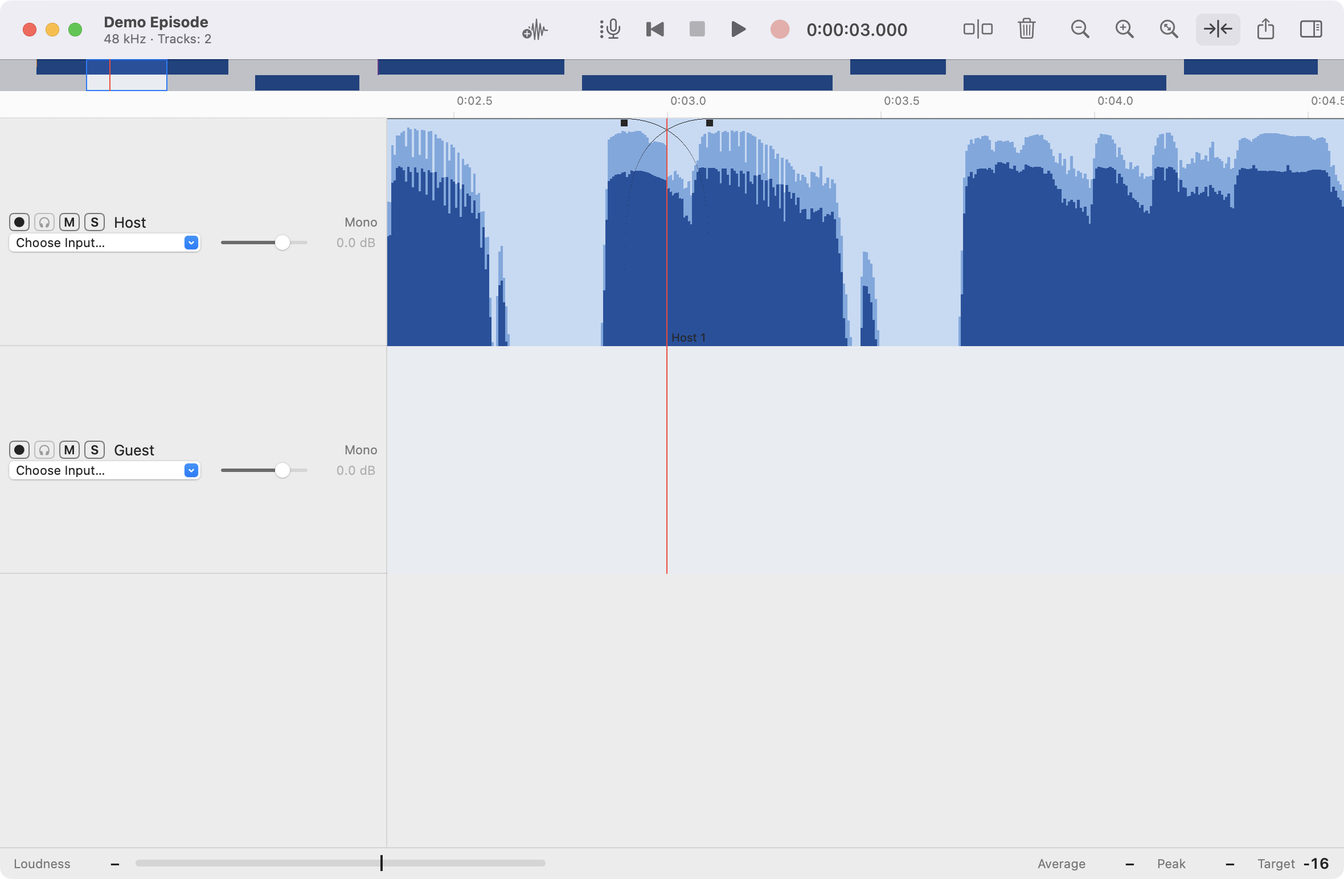
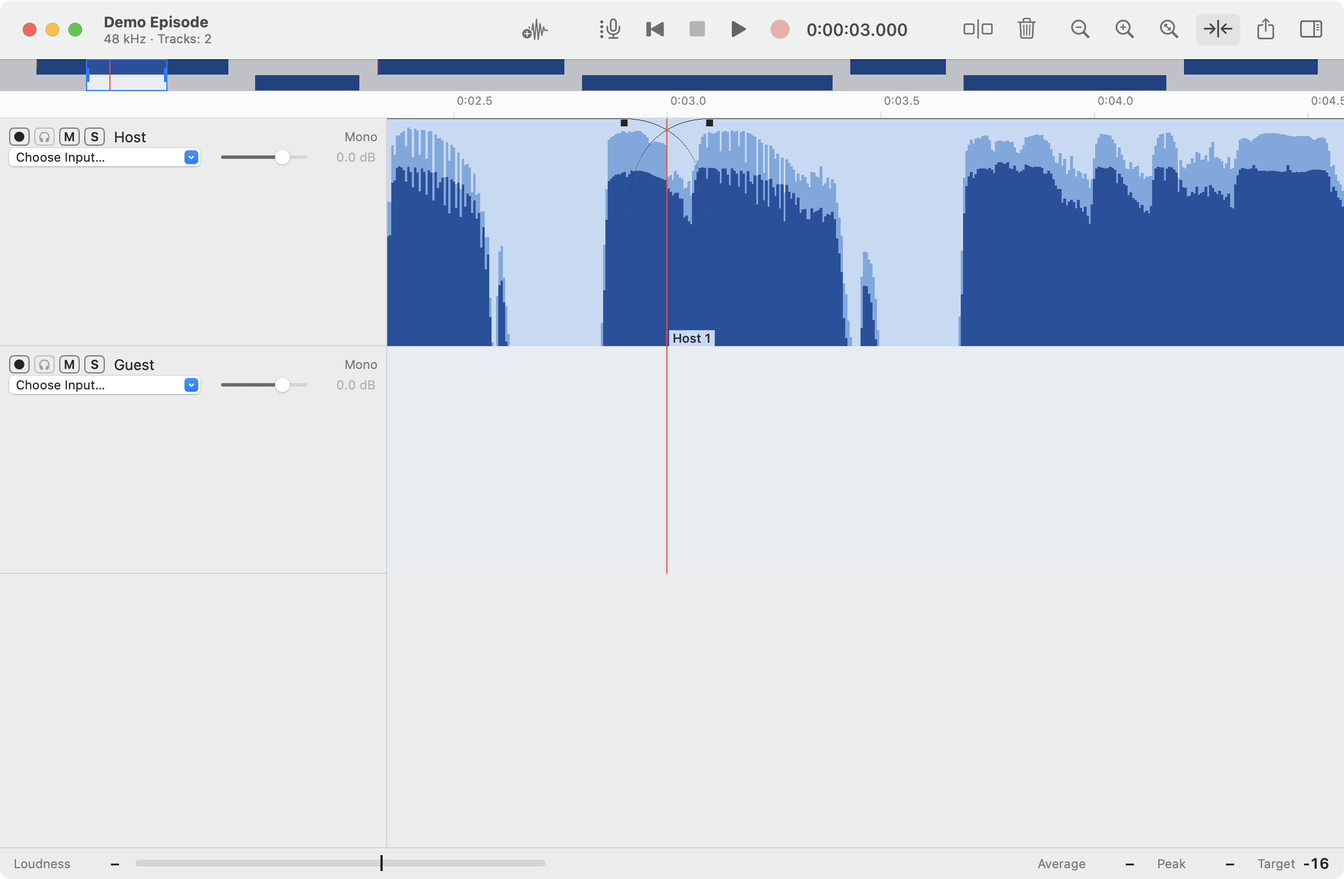
docs: header polish in the guide, decisions, and research
The guide now gives the short state texts and their help tags, the
symbols of a row under 80 pt, the red live region, the take form of the
header, the tint of a selected track, the zoom tooltips, and the grips
of the Session overview. Decisions 0022, 0023, 0025, and 0044 get the
amended rules. docs/research/track-header.md keeps the header research
of Hindenburg, Logic, GarageBand, and Final Cut Pro, with the facts of
the UI expert panel. The screenshots show the new clip label chips and
the taller lanes.

diff --git a/docs/research/track-header.md b/docs/research/track-header.md
@@ -1,0 +1,114 @@
+# Track header controls at a tall lane, and the header of a recording track
+
+Date: 2026-10-11
+
+Question: where do Hindenburg PRO and Logic Pro put the header controls of a tall track (at the top or at the center)? Which controls show at which height? How does Hindenburg draw the header of an armed track and of a track that records? GarageBand and Final Cut Pro are added where they help.
+
+Method: official guide pages and their figures, the Hindenburg Journalist 1.21 guide (vendor PDF, text and figures extracted with a Python script, no render), and frames of the official Hindenburg PRO videos (YouTube thumbnails). No app ran for the first pass: a flake loop ran on this Mac. Section 4 adds two on-screen checks in Logic 12.3.1. A sentence that starts with "Observed:" describes a figure or a frame. A sentence that starts with "Inference:" is our reading. "(unconfirmed)" marks a claim that no source shows.
+
+## 1. Vertical place of the header controls in a tall track
+
+| App | Place | Evidence |
+|---|---|---|
+| Hindenburg PRO | Top. The stack starts at the row top; the free space is below it. | [HJ] p. 8, 14, 19; [V-arm], [V-prep], [V-height] frames |
+| Logic Pro | Top at a large zoom. At about 4 times, the name and the control row stay at the row top, and a large track icon fills the free space; the track number stays at the vertical center. At about 1.3 times the block looks centered. | [LZT] figure; [L-screen] |
+| GarageBand | No per-track height in the guide. One header height, content centered. | [GZ], [GTH] figure |
+| Final Cut Pro | No track header. The lane name is at the top-left of a tall audio lane. | [FL] figure |
+
+### Hindenburg PRO
+
+- Observed: the header is a fixed stack: name field, volume slider, pan slider, a button row (Rec, M, S, FX, a menu triangle), and in PRO also an input route pop-up ("Soundflower", "Built-in Microphone") [V-arm] [V-prep]. The stack is at the top of the row. The rest of the header is empty gray [HJ] p. 14, p. 19.
+- Observed: the stack has the same layout at all the heights in the sources. [HJ] p. 8 shows short rows, and p. 14 and p. 19 show tall rows. The stack is at the top in each. In [V-height] (the "View - Increase track height" video) the rows are larger, and the stack stays at the top.
+- The [V-prep] frame has the title "Hindenburg Broadcaster", and [V-arm] shows a Soundflower route. These frames show old builds. The header of PRO 2 is unconfirmed in these sources.
+- Observed: no figure shows more controls at a larger height, or fewer controls at a smaller height. The behavior of a row that is shorter than the stack is unconfirmed.
+- The guide lists the header controls: "Rename Track, Track Volume, Track Balance, Arm Rec, Monitor, Mute, Solo, Effects bin, Voice Profiler" [HJ] p. 44. "Zoom Track Height" makes the tracks larger or smaller [HP-guides] [HJ] p. 95 (keys).
+
+### Logic Pro
+
+- The guide: "move the pointer to the bottom-left corner of a track. ... Drag vertically. The individual track zoom factor ... is shown in the help tag" [LZT]. Control-Z zooms the focused track [LZT].
+- Observed: in the [LZT] figure, track 2 is zoomed to about 1.3 times the other rows. Its icon, its name, and its M S R row stay at the vertical center of the row. The track number is also centered. The other rows are centered too.
+- Observed: the header has one row of controls at each height in the figure (name above M, S, R, I; volume slider; pan knob) [LTH]. The guide gives no rule that adds or removes a control with the height. The choice of controls is a user setting: Track > Configure Track Header (Option-T) [LTH].
+- The figure shows only a small zoom.
+- Observed on screen (Logic 12.3.1, [L-screen] `04-zoom4x`): a track zoomed to about 4 times keeps its name, M, S, R, I, the volume slider, and the pan knob at the top of the row. A large track icon fills the space below. The track number stays at the vertical center of the row. The other rows do not change.
+
+### GarageBand
+
+- The Tracks area guide describes only the horizontal zoom sliders: "drag the horizontal zoom sliders, located in the ruler" [GZ]. It gives no per-track height.
+- Observed: the [GTH] figure shows the header content (icon, name, buttons, volume, pan) at the vertical center of the row.
+
+### Final Cut Pro
+
+- Final Cut Pro has no track header. "A text label appears at the left side of each audio lane, identifying the role" [FL]. The Lane Headers checkbox keeps the lane names visible: "Always show lane names (so the names aren't obscured by clips)" [FCA].
+- Observed: in the [FL] figure, the Dialogue lane holds two rows of clips. Its label is at the top-left of the lane, not at the center.
+- The Clip Height slider sets the clip height [FCA].
+
+## 2. The header of an armed or recording track
+
+### Hindenburg PRO
+
+- Arm: "Prepare (Arm) the track for recording. The small meter will show input levels. Arm track > Click 'Arm Rec' in track" [HJ] p. 19. The key is R [HJ] p. 45. Monitor on and off is in the context menu of the Rec button [HJ] p. 46.
+- Observed: the Rec button of an armed track has a bright red dot. The dot of a track that is not armed is pale pink [HJ] p. 14, p. 19.
+- Observed: on the armed track, the thumb of the volume slider is red. On the other tracks it is white [HJ] p. 19; the same in [V-arm] and [V-prep]. The meaning of the red thumb is unconfirmed.
+- Observed: a vertical green meter strip at the edge between the header and the lane shows the input of the armed track [HJ] p. 19.
+- Observed: during a take, the new region in the lane is red ("Speak 1"). A finished region is blue [HJ] p. 19 (second figure), p. 14.
+- Observed: during a take, the header does not change. The name field, the sliders, and the buttons keep their normal look; nothing is gray. The selected track name has a blue fill, armed or not. No colored bar is at the row edge [HJ] p. 19.
+- Whether the route pop-up and the sliders accept a change during a take is unconfirmed.
+
+### Logic Pro
+
+- The Record Enable button has four states: "Off (gray)", "Record-ready (blinking red)", "Recording (solid red)", and "Single track, ready to record (gray with red letter R; appears on the focused track if no tracks are manually record enabled)" [LRE].
+- "If Input is set to No Input, the R button is hidden" [LRE].
+- Observed: the [LZT] figure shows an armed track with a red R button. The rest of the header keeps its normal look.
+- Observed on screen ([L-screen] `05-armed`, `06-recording`): an armed track has a solid red R and a green level inside its volume slider. During a 3 s take the header keeps its normal look: nothing is gray, and no bar is at the row edge. The new region in the lane is dark red while it records, as in Hindenburg.
+
+### GarageBand
+
+- "The Record Enable buttons include a circle that lights red when the track is record-enabled" [GRE].
+- Observed: in the [GTH] figure, the volume slider shows a green level bar inside its track.
+
+### Final Cut Pro
+
+- Final Cut Pro records in the Record Voiceover window, not in a track header. The window has the input gain, the meter, the input, and the monitor [FVO].
+
+## 3. What this changes for the header of Dirigible
+
+- Line 1 at the row top from 80 pt: Hindenburg, Logic, and Final Cut Pro support it. The [LZT] figure at about 1.3 times looked centered, but the on-screen check at about 4 times shows the controls at the row top ([L-screen]).
+- Inference: Hindenburg puts the stack at the top at every height. Dirigible keeps the center under 80 pt. This is our choice, not a reference behavior: at 80 pt or less, the two lines fill most of the row.
+- The take look: Hindenburg and Logic keep the header at its normal look during a take. This supports "no gray row" and "the name keeps the primary color". No source shows a red bar at the row edge. The reference apps show the state on the arm button: Hindenburg lights the dot red, and Logic blinks the R red when ready and makes it solid red during a take.
+- Inference: a 3 pt red bar repeats the red R. Hindenburg and Logic draw the live region red in the lane during the take ([HJ] p. 19, [L-screen] `06-recording`). No source shows the bar.
+- Open question: the plain route text during a take has no reference. Hindenburg shows the route pop-up; its state during a take is unconfirmed.
+
+## 4. On-screen checks in Logic 12.3.1 (2026-10-11)
+
+1. A track zoomed to about 4 times (a drag at the bottom-left corner of the track header): the controls are at the row top.
+2. One armed track, a 3 s take from the built-in microphone: the header keeps its normal look, the R is solid red, and the live region is red. Logic quit with Don't Save; no project or audio file stayed.
+
+## 5. Facts of the UI expert panel
+
+A UI expert panel (one agent each for Hindenburg PRO, Logic Pro, GarageBand, and Final Cut Pro) quoted these pages on 2026-10-11. This file did not fetch them again.
+
+- Logic Pro: "The level meter in a track's Volume slider shows the output volume for the track as the project plays". In the track list, "During playback, each track number is replaced with a small level meter showing the output level" [LTH-10].
+- Logic Pro: Vertical Auto Zoom resizes the tracks "so that all tracks are visible, with no blank space" (`docs/research/logic-garageband-update.md`).
+- GarageBand: Quick Help shows a short description of the control under the pointer in a yellow bubble, and links to longer help [GQH].
+- Final Cut Pro: the Clip Appearance pop-up holds Clip Height, the waveform size, and a Zoom slider [FCA]. View > Vertical Zoom to Fit has the key Option-Shift-Z (`docs/research/macos-ui-shell.md`).
+- Final Cut Pro: roles are color labels, and all clips of a role show the role color in the timeline (`docs/research/final-cut-pro.md`).
+
+## Sources
+
+- [HJ] Hindenburg Journalist 1.21 user guide for OS X, pages 8, 14, 19, 44 to 46, 95 (text and figures extracted on 2026-10-11): https://www.willyurman.com/teaching/handouts/Hindenburg_Journalist.pdf
+- [HP-guides] Hindenburg PRO functions and guides: https://hindenburg.com/academy/guides/guides-hindenburg-pro/
+- [V-arm] Hindenburg PRO, "Tracks - Arm Track" video (frame: maxresdefault): https://hindenburg.com/data/youtube/videos/how-to-arm-a-track-in-hindenburg-pro-hindenburg/ (YouTube zglwxhxLa-w)
+- [V-prep] Hindenburg PRO, "Record - Arm track" video (frame: maxresdefault): https://hindenburg.com/data/youtube/videos/how-to-prepare-a-track-for-recording-in-hindenburg-pro-hindenburg/ (YouTube a7uHvokmFjE); also the "Record" video frame hq2: https://hindenburg.com/data/youtube/videos/how-to-begin-recording-on-a-track-in-hindenburg-pro-hindenburg/ (YouTube dQl7BuV9-Rk)
+- [V-height] Hindenburg PRO, "View - Increase track height" video (frame: hq2): https://hindenburg.com/data/youtube/videos/how-to-make-a-track-larger-in-hindenburg-pro-hindenburg/ (YouTube 00CSEJ7ieWM)
+- [LZT] Logic Pro 12.3 User Guide, Zoom tracks, with the figure "Zooming a track in the track header": https://support.apple.com/guide/logicpro/zoom-tracks-lgcpc79f5bcd/mac (figure: https://help.apple.com/assets/697921A0B89A6DAE620D667A/697921A59331DF6F330EFA33/en_US/32e83b2dfbf5f44467d89f5af8c8c119.png)
+- [LTH] Logic Pro 12.3 User Guide, Track header overview: https://support.apple.com/guide/logicpro/track-header-overview-lgcpe53c68af/mac
+- [LRE] Logic Pro 12.3 User Guide, Make tracks ready for recording: https://support.apple.com/guide/logicpro/make-tracks-ready-for-recording-lgcp0c445ccf/mac
+- [GTH] GarageBand User Guide, Intro to track headers: https://support.apple.com/guide/garageband/intro-to-track-headers-gbnd6143101c/mac
+- [GRE] GarageBand User Guide, Enable tracks for recording (figure: https://help.apple.com/assets/6837A0663D97F08D11030E14/6837A070079DA7265609910C/en_US/c7aded2971f62a0bcce29a0d081f34a6.png): https://support.apple.com/guide/garageband/enable-tracks-for-recording-gbnd9e804dab/mac
+- [GZ] GarageBand User Guide, Scroll and zoom in the Tracks area: https://support.apple.com/guide/garageband/scroll-and-zoom-in-the-tracks-area-gbndd75e5c48/mac
+- [FL] Final Cut Pro User Guide, Organize the timeline with audio lanes (figure: https://help.apple.com/assets/6A29F5537442EFE69C0CD4F3/6A29F558FEEBDB01270C8EF2/en_US/e6c0d4ded6a7fc7b2e8bf9795d358148.png): https://support.apple.com/guide/final-cut-pro/organize-the-timeline-with-audio-lanes-verb71cb913/mac
+- [FCA] Final Cut Pro User Guide, Adjust timeline clip appearance: https://support.apple.com/guide/final-cut-pro/adjust-timeline-clip-appearance-verb8e5d346/mac
+- [L-screen] Logic Pro 12.3.1 on this Mac, 2026-10-11: run folder `logic/04-zoom4x.png`, `logic/05-armed.png`, `logic/06-recording.png` (not in git).
+- [FVO] Final Cut Pro User Guide, Record voiceovers: https://support.apple.com/guide/final-cut-pro/record-voiceovers-verc1faa9c5/mac
+- [LTH-10] Logic Pro 10.1 help, Track header overview (quoted by the panel): https://help.apple.com/logicpro/mac/10.1/en.lproj/lgcpe53c68af.html
+- [GQH] GarageBand User Guide, Quick Help (quoted by the panel): https://support.apple.com/en-mt/guide/garageband/gbnde4c4dcd6/mac

diff --git a/docs/guide.md b/docs/guide.md
@@ -63,7 +63,7 @@ A track records only when its arm button is on. Click the button to turn it on o
 ### Record a take
 
 1. Choose **Record > Record** (Command-R). The window shows **Recording take 1** and the time.
-2. Record the interview. The armed tracks show the audio as it records. A red line shows the record head. When **View > Automatic Scroll** is on, the view turns the page to keep the record head in view.
+2. Record the interview. The armed tracks show the audio in red as it records. A red line shows the record head. The header of each armed track shows its input and its name as text until the take is finished. When **View > Automatic Scroll** is on, the view turns the page to keep the record head in view.
 3. Choose **Transport > Stop** (Command-Period). The window shows **Finishing take 1**, then **Take 1 is finished.**
 
 A take is one recording, from Record to Stop. After Stop, Dirigible finalizes the take: it writes the audio of each track into clips. A clip is one piece of audio on a track. The playhead is the vertical line that shows the play position. After a take, the playhead is at the end of the take.
@@ -135,7 +135,7 @@ The in point is the start of the selection, and the out point is the end. With n
 ### Zoom
 
 - Choose **View > Zoom In**, **View > Zoom Out**, or **View > Zoom to Session**.
-- On a trackpad, pinch to zoom. With a mouse, hold Command and turn the scroll wheel.
+- On a trackpad, pinch to zoom. With a mouse, hold Command and turn the scroll wheel. The zoom keeps the part under the pointer in place. The tooltips of the **Zoom In** and **Zoom Out** toolbar buttons tell you this.
 - Choose **View > Zoom to Selection or Session** to show the selection. With no selection, it shows the whole session. Choose it again to go back to the view before.
 - Choose **View > Zoom Back** and **View > Zoom Forward** to go through the zoom history of the window.
 - Double-tap with two fingers on a trackpad for smart zoom. When the whole session is in view, smart zoom zooms in at the pointer. In other views, it shows the whole session.
@@ -146,7 +146,7 @@ The **Session overview** is the strip above the time ruler. It shows the whole s
 
 - Click the Session overview to show that part of the session.
 - Drag the frame to scroll.
-- Drag an edge of the frame to zoom. Press Esc during the drag to go back to the view before.
+- Drag an edge of the frame to zoom. When the frame is 16 pt or wider, a grip shows at each edge. Press Esc during the drag to go back to the view before.
 - Double-click the Session overview to show the whole session. Double-click again to go back.
 
 ### Scroll by page and change the track height
@@ -167,7 +167,7 @@ A selection is a range or a set of clips. A range has an in point, an out point,
 - Shift-click a track to select from the playhead to the click. Shift-drag to make the selection larger.
 - Command-click the upper part of a clip to add it to the set of clips or remove it from the set. When a range is selected, the set starts with the clips that the range holds fully.
 - Command-click the lower part of a clip, or an empty part of a track, to add the track to the range or remove it from the range.
-- Click the header of a track, or its name, to select that track. The header shows the selection color. The in point and the out point stay. Command-click a header to add its track or remove it. Shift-click a header to select all tracks from the selected tracks to that track.
+- Click the header of a track, or its name, to select that track. The header shows the selection color, and the track shows a light tint of it. The in point and the out point stay. Command-click a header to add its track or remove it. Shift-click a header to select all tracks from the selected tracks to that track.
 - Drag a triangle in the time ruler to move the in point or the out point.
 - Choose **Edit > Select All** to select the whole session. Choose **Edit > Deselect All**, or press Esc, to clear the selection.
 - **Set In Point**, **Set Out Point**, **Select All**, and a drag that selects a range replace a set of clips with a range.
@@ -352,8 +352,8 @@ The Monitor button (the headphones, after the arm button) in the track header do
 - The track does not need to be armed. The monitor works before, during, and after a take, and during play.
 - Only a track with an input device can monitor. For an app track or a track with no input, the item is dimmed.
 - When the output is the built-in speakers, the monitor plays no sound, so the microphone does not pick up the monitor. The window shows the banner "Use headphones to hear the monitor." Plug in headphones, and the sound comes back. Dirigible does not detect external speakers. With speakers, turn the monitor off.
-- When the monitor cannot play, the track shows "No monitor sound. Turn Monitor Track off and on."
-- When the output contains the virtual device of the input, for example a loopback device in an aggregate device, the monitor plays no sound, so it does not feed its own input. The header says why: "No monitor sound: the output can feed this input. Choose another output."
+- When the monitor cannot play, the track header shows "No monitor sound". Hold the pointer over it to see the full text: "No monitor sound. Turn Monitor Track off and on." A header that is lower than 80 pt shows a speaker symbol with a slash.
+- When the output contains the virtual device of the input, for example a loopback device in an aggregate device, the monitor plays no sound, so it does not feed its own input. The full text says why: "No monitor sound: the output can feed this input. Choose another output."
 - You hear your voice a short time late: about 100 ms from the built-in microphone. Bluetooth headphones add more.
 - The monitor is off when a session opens. Dirigible does not save it.
 
@@ -368,7 +368,7 @@ Dirigible can record the sound of another app, for example a Zoom, Teams, or Sla
 
 - One app can feed one track only. Record your own microphone on another track.
 - When the app does not run, the track shows "Waiting for" and the app name, and records silence. When the app starts, the track records it.
-- When the track gets only silence for 5 seconds while the app plays sound, the track shows "No sound from" and the app name, with the button **Privacy…** (full name **Open Privacy Settings**). The button opens Privacy & Security in System Settings. Allow Dirigible in **Privacy & Security > System Audio Recording**. Dirigible tries again 10 and 40 seconds later.
+- When the track gets only silence for 5 seconds while the app plays sound, the track shows "No sound from" and the app name, with the button **Privacy…** (full name **Open Privacy Settings**). A header that is lower than 80 pt shows an orange warning symbol: hold the pointer over it to see the text, and click it to open the settings. The button opens Privacy & Security in System Settings. Allow Dirigible in **Privacy & Security > System Audio Recording**. Dirigible tries again 10 and 40 seconds later.
 - On macOS 14.0 and 14.1, the **Apps** section shows "Needs macOS 14.2 or later".
 - In Terminal, `dirigible apps` lists the apps, and `dirigible track route <package> <track> --app <bundle ID>` sets an app as the input. `dirigible track add-call <package> --device <UID> --channels 1 --app <bundle ID>` adds the **Host** and **Guest** tracks.
 

diff --git a/docs/decisions/0044-record-monitor.md b/docs/decisions/0044-record-monitor.md
@@ -5,6 +5,7 @@
 - Accepted: 2026-10-10, after plan gates 1 and 2 of run `2026-10-10-record-monitor`.
 - Amended: 2026-10-10. The speaker guard plays zeros when the output, or one of its active subdevices, is a loopback device of the listened input: the input when it is virtual, and each virtual device under an aggregate input. A failed transport or subdevice read, or an aggregate under itself, makes every output a loopback (fail closed), and the header shows the quiet text.
 - Amended: 2026-10-10. Track > Monitor Track has the key Control-Command-M. A text field has no Control-Command-M, so the track name field keeps its keys. Each device track header has a Monitor button with the same state.
+- Amended: 2026-10-11, run ui-polish-header. The full quiet sentence wrapped to 3 to 13 lines in a header row. The row shows "No monitor sound": on line 3 in a row of 80 pt or more, as a speaker symbol in a lower row. The full sentence is the help tag and the VoiceOver label.
 - Amends: 0013 (a second owner of an input IOProc), 0015 (the meter request includes the listened tracks), 0039 (playback during a take goes to Release 3 run 9).
 
 ## Context
@@ -39,7 +40,7 @@ Probes P1 to P9 (2026-10-10, macOS 15.7.9, x86_64, Swift 6.2.4; run `2026-10-10-
 
 **Owner and order.** `Studio.listen(to:)` sets the request. Each change runs in its own order, not in the monitor turns of 0015: the hand-over holds a monitor turn while an app attach waits for a prompt. A device that leaves the request plays zeros before the first await and is released before the return. The monitor needs no arm and works during a take and a finalize. `settle()` empties the listen request first. The `Listener` keeps the attach, retry, and keep rules of 0013 and 0015 for its own IOProc. An output unit that fails to start sends the `Listener` to its retry. A failed stop keeps the ring and does not flush it. A retry after a failed stop or detach makes a new ring and context, and counts against the keep limit, so no ring gets two producers or two consumers. A clean IOProc destroy (P8) and a clean unit stop (P9) free the ring bytes; after a failed one, the ring stays for the process life. The context (its atomics and its lock) stays for the process life in each case, because a listener call can be in progress after its removal (0013).
 
-**State in the window.** A `Listener` that waits or stops retrying reports it. `Studio` keeps the quiet state per device and takes a report only from the current `Listener` of that device. The quiet tracks are the listened tracks of a quiet device, so off leaves no text. The tracks of a quiet device show "No monitor sound. Turn Monitor Track off and on." in the track header.
+**State in the window.** A `Listener` that waits or stops retrying reports it. `Studio` keeps the quiet state per device and takes a report only from the current `Listener` of that device. The quiet tracks are the listened tracks of a quiet device, so off leaves no text. The tracks of a quiet device show "No monitor sound" in the track header, with the full sentence "No monitor sound. Turn Monitor Track off and on." as the help tag and the VoiceOver label.
 
 **Playback during a take.** No playback runs during a take, and mute and solo stay off during a take. Pre-roll (Release 3 run 9) needs playback during a take with a take anchor that includes the output latency, so that run decides both.
 

diff --git a/docs/decisions/0022-timeline-lane-layer.md b/docs/decisions/0022-timeline-lane-layer.md
@@ -6,6 +6,7 @@
 - Changed: 2026-09-27, by run 1b slice 1 (decision 0023, "Surface capacity"): the capacity columns are ceil(max(clip view width, view width) x scale) + 1. The clip view width has the part under the track headers, so a header drag keeps the 4 slots and renders only the new columns. The memory bound is 4 x the capacity bytes at the clip view width: about 81 MB at 1780 x 600 pt (1440 pt of lanes, a 340 pt header), 100 pt lanes, scale 2, about 24 % more.
 - Amended: 2026-10-01, live-take-view run: the live take is a drawn input outside `LaneInputs`, with its own invalidation. At a display tick, an append (a new store version) marks the full-height columns from the lowest added frame or the last live head, the lower, to the new head. A tick with no new version draws nothing. A new epoch or a new live key (a take start, a stop, a track state, the hand-off, a finalize error) draws the lanes in view once. Every full draw reads the live take, so two partial draws agree with one full draw. Probe P1 (decisions.tsv of the run, 2026-10-01T08:45): draw at the store rate, not at each tick; the lanes stay one layer of surfaces (no head layer).
 - Amended: 2026-10-04, run 12 (see 0037): a ripple drag event copies the later region of the front shifted by the move, when `shiftedFrames` finds one move for every lane, the front shows the same window, the move is a whole number of columns, the Marks do not change and are left of both regions, and no other change waits for the draw. It draws the strip before that region, the marker lines that do not follow the move, and the columns that the shift shows at an edge. The shifted region counts as drawn in the history of the slots. The ruler keeps the typeset line of each text, because its text was half of a ruler draw.
+- Amended: 2026-10-11, run ui-polish-header: while the transport records, the live region draws in the live palette (red clip, peak, and RMS colors); the finalize draws the normal palette, so its pixels equal the clips after the hand-off. A clip label and the take label have a chip: the renderer draws no peak or RMS span there, and one draw builds the labels once for the renderer and the text pass.
 - Amends: 0017 (the Drawing paragraph), 0020 (the Budget paragraph and the dirty-rect consequence).
 
 ## Context

diff --git a/docs/decisions/0023-ui-shell.md b/docs/decisions/0023-ui-shell.md
@@ -10,6 +10,7 @@
 - Amended: 2026-10-04, run 11b-2. The inspector is a SwiftUI column of `SessionView` at the trailing edge, 270 pt with its divider, not in the view tree when hidden. The content stays one `NSHostingController`, as for the loudness strip. While the inspector shows, the minimum content width is 990 pt, and Show Inspector widens a narrower window with no animation. See 0035.
 - Amended: 2026-10-05, ui-polish run: Go to Start joins the default set before Stop, and a new Inspector item (`view.inspector`, `sidebar.trailing`, priority high, a push-on button) joins it at the trailing end after Export. The item and View > Show Inspector both call `run(.toggleInspector)`. Cut, Copy, Paste, and Go to End stay in the palette only.
 - Amended: 2026-10-11, snap run: a Snap item (`view.snap`, `arrow.right.and.line.vertical.and.arrow.left`, priority low, a push-on button) joins the default set after Zoom to Session. The item and View > Snap (N) both call `AppDelegate.toggleSnap`, the one writer of the app preference, so the item of each window shows one value. A window with a saved toolbar layout gets the item only through Customize Toolbar.
+- Amended: 2026-10-11, run ui-polish-header: the tooltips of Zoom In and Zoom Out also name the gestures that zoom at the pointer (Command-scroll and pinch), from the key `toolbar.tooltip.zoom`.
 - Amends: 0014 (the window shell and the keys), 0015 (the Monitor Inputs toggle), 0016 (the transport bar), 0017 (the track headers), 0022 (the surface capacity, if the header drag needs it).
 
 ## Context

diff --git a/docs/decisions/0025-timeline-navigation.md b/docs/decisions/0025-timeline-navigation.md
@@ -4,6 +4,7 @@
 - Date: 2026-09-28
 - Accepted: 2026-09-28, after plan gate 1 of the timeline-navigation run. The gate added the view of the first click for the strip double-click, the Shift rule of the key test only for printable symbol and digit keys, the accessibility value 0 at the fit and clamped to 0...1, the frame-drag budget at the closest zoom with one lane draw per event, a publish of `visible` at `record()` with the drag hold, the map from a momentum event to a stroke, and the row rule of the strip for many tracks.
 - Amended: 2026-10-11, run ui-polish-header: the automatic track height is 40 to 200 pt (was 40 to 120 pt), so a few tracks fill a tall window. The fixed steps do not change.
+- Amended: 2026-10-11, run ui-polish-header: a frame of 16 pt or more shows a grip of 3 x 12 pt in the accent color at each edge, inside the edge zone. The grips are layers that move with the frame and render no strip pixel.
 - Amends: 0017 (the keys, H with no selection, the view state, the lane height), 0020 (autoscroll during a gesture).
 
 ## Context
